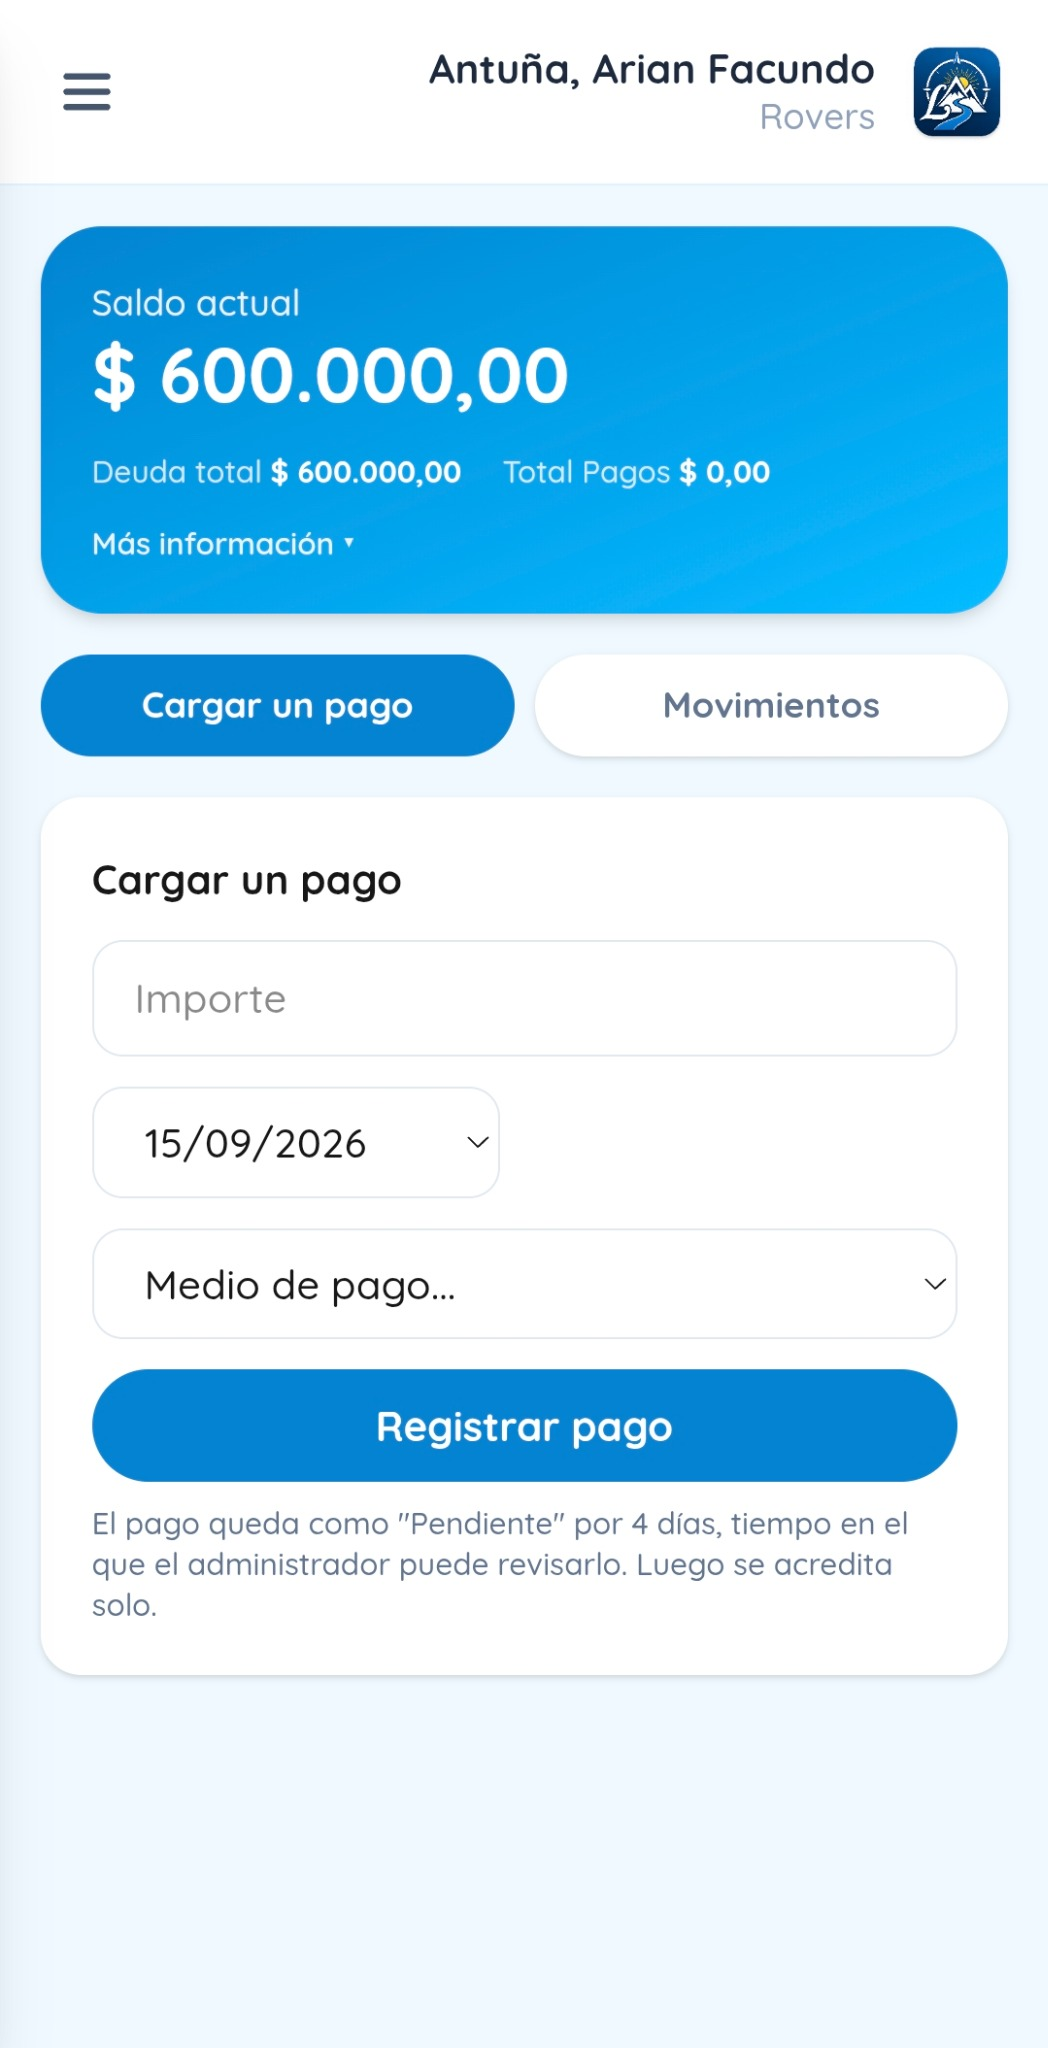
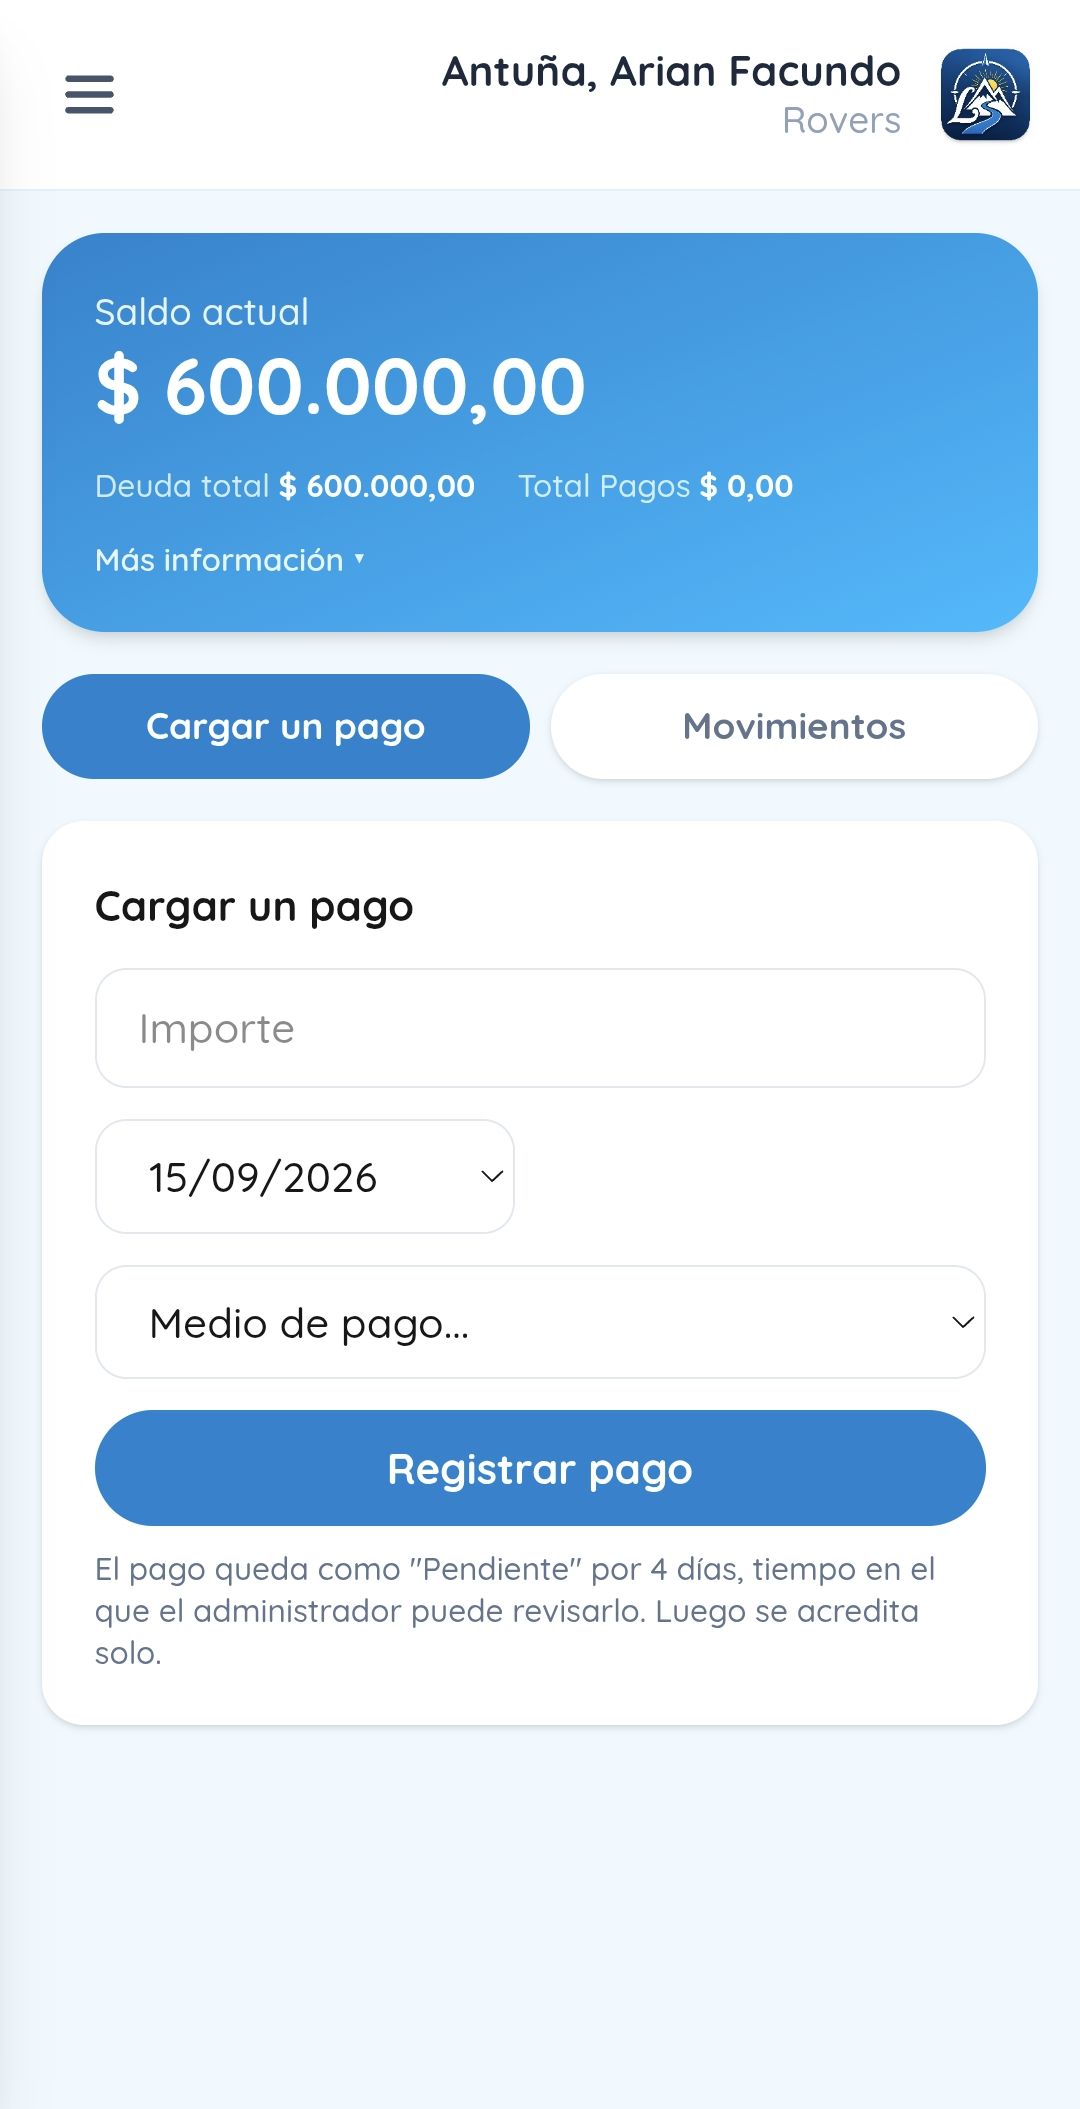
Corregir proporciones del mockup del celular en el hero
El frame .phone usaba ancho y alto en porcentajes independientes que
no estaban ligados entre si, por lo que cualquier cambio de alto del
hero lo desproporcionaba. Se reemplaza por aspect-ratio (calcado del
aspect real de las capturas) para que el marco siempre tenga forma de
telefono sin importar el alto del contenedor. Tambien se actualiza la
captura de pantalla usada dentro del mockup.

diff --git a/styles.css b/styles.css
@@ -1,13 +1,13 @@
 :root{--navy:#07366d;--deep:#052b59;--blue:#087cf0;--sky:#27b7ef;--pale:#eaf7ff;--yellow:#ffd633;--text:#0b315e;--muted:#647f9e;--white:#fff;--shadow:0 20px 60px rgba(4,53,105,.14)}
 *{box-sizing:border-box}html{scroll-behavior:smooth}body{margin:0;color:var(--text);font-family:"DM Sans",sans-serif;background:#fff;overflow-x:hidden}img{max-width:100%;display:block}a{color:inherit;text-decoration:none}.shell{width:min(1160px,calc(100% - 40px));margin-inline:auto}.skip-link{position:fixed;left:16px;top:-80px;z-index:100;background:#fff;padding:12px 18px;border-radius:10px}.skip-link:focus{top:16px}.eyebrow{text-transform:uppercase;letter-spacing:.15em;font-weight:800;color:#78bdf2;font-size:.78rem}.site-header{position:fixed;inset:0 0 auto;z-index:50;background:rgba(255,255,255,.86);backdrop-filter:blur(18px);border-bottom:1px solid rgba(10,106,186,.08)}.nav-wrap{height:94px;display:flex;align-items:center;gap:34px}.brand{width:280px;flex:0 0 auto}.brand img{width:100%;height:auto}.site-header nav{display:flex;align-items:center;gap:30px;margin-left:auto}.site-header nav a{font-weight:600;color:#6e82a0;position:relative}.site-header nav a:hover,.site-header nav a.active{color:var(--blue)}.site-header nav a.active:after{content:"";position:absolute;height:3px;border-radius:3px;left:0;right:0;bottom:-15px;background:var(--blue)}.button{display:inline-flex;align-items:center;justify-content:center;gap:11px;background:linear-gradient(135deg,#0a86f6,#0062df);color:#fff;font-weight:800;border-radius:999px;padding:16px 26px;box-shadow:0 12px 28px rgba(2,112,228,.27);border:0;transition:.25s transform,.25s box-shadow}.button:hover{transform:translateY(-2px);box-shadow:0 16px 34px rgba(2,112,228,.34)}.button-small{padding:13px 22px}.menu-toggle{display:none;border:0;background:none;padding:8px}.menu-toggle span{display:block;width:24px;height:2px;background:var(--navy);margin:5px}
 .hero{position:relative;padding:165px 0 84px;min-height:760px;overflow:hidden;background:linear-gradient(160deg,#fff 12%,#eff9ff 57%,#d7efff);isolation:isolate}.hero-art{position:absolute;inset:0;background:url("assets/hero-superior.png") bottom center/cover no-repeat;opacity:.3;z-index:-1}.hero-glow{position:absolute;width:560px;height:560px;right:3%;top:15%;border-radius:50%;background:radial-gradient(circle,rgba(58,187,245,.2),transparent 66%);z-index:-1}.hero-grid{display:grid;grid-template-columns:.92fr 1.08fr;gap:34px;align-items:center}.hero-copy{padding-top:15px}.hero h1,.section-heading h2,.section-copy h2,.family-message h2{font-family:"Nunito",sans-serif;margin:.3em 0;line-height:1.03;color:var(--navy);letter-spacing:-.035em}.hero h1{font-size:clamp(2.65rem,5vw,4.4rem);max-width:640px}.hero h1 span,.section-heading h2 span,.section-copy h2 span,.family-message h2 span{color:var(--blue)}.lede{font-size:1.08rem;line-height:1.7;color:var(--muted);max-width:590px}.hero-actions{display:flex;gap:14px;margin:30px 0}.button-ghost{background:rgba(255,255,255,.78);color:var(--blue);border:2px solid #7bbdf6;box-shadow:none}.play-mini{border:2px solid;border-radius:50%;width:25px;height:25px;display:grid;place-items:center;font-size:.65rem;padding-left:2px}.hero-points{list-style:none;display:flex;gap:26px;padding:0;margin:38px 0 0;color:#7890ad;font-size:.79rem}.hero-points li{display:flex;align-items:center;gap:8px;max-width:140px}.hero-points span{width:35px;height:35px;border-radius:50%;display:grid;place-items:center;background:#e1f4ff;color:var(--blue);font-size:1rem;flex:0 0 auto}
-.product-scene{position:relative;height:530px}.laptop{position:absolute;width:77%;height:60%;left:0;top:20%;background:#152d42;border:9px solid #152d42;border-radius:16px 16px 7px 7px;transform:perspective(900px) rotateY(-4deg);box-shadow:0 28px 45px rgba(6,48,87,.26)}.laptop:after{content:"";position:absolute;left:-6%;right:-6%;height:14px;bottom:-22px;border-radius:4px 4px 20px 20px;background:linear-gradient(#d5e4ed,#8aa2b6)}.laptop-screen{height:100%;padding:54px 34px;background:linear-gradient(135deg,rgba(255,255,255,.95),rgba(221,247,255,.9)),url("assets/maqueta.png") center/cover;border-radius:7px;color:var(--navy)}.mock-brand{display:flex;align-items:center;gap:9px}.mock-brand img{width:27px;border-radius:7px}.laptop-screen p{font-family:"Nunito";font-size:2rem;line-height:1.05;margin:28px 0 10px}.laptop-screen small{color:#6b85a4}.phone{position:absolute;right:3%;top:17%;width:34%;min-width:210px;height:71%;background:#fff;border:8px solid #152d42;border-radius:30px;padding:0;overflow:hidden;box-shadow:0 28px 48px rgba(6,48,87,.3);z-index:3}.phone-shot{display:block;width:100%;height:100%;object-fit:cover;object-position:top center}.floating-icon{position:absolute;width:104px;top:2%;left:39%;border-radius:25px;box-shadow:0 18px 32px rgba(3,67,129,.35);z-index:5}.video-orb{position:absolute;left:46%;top:49%;z-index:6;width:96px;height:96px;border-radius:50%;background:linear-gradient(145deg,#20a5ff,#0065ec);border:8px solid rgba(255,255,255,.72);display:grid;place-items:center;color:#fff;font-size:2rem;box-shadow:0 10px 30px rgba(0,103,229,.4)}.video-orb span{margin-left:6px}.note{position:absolute;font-family:"Nunito";font-style:italic;color:#5278a2;transform:rotate(-6deg);font-size:1rem}.note-top{right:0;top:0}.note-bottom{bottom:0;left:35%}.sun-mark{position:absolute;right:4%;bottom:5%;width:120px;height:120px;border-radius:50%;background:var(--yellow);opacity:.55}
+.product-scene{position:relative;height:530px}.laptop{position:absolute;width:77%;height:60%;left:0;top:20%;background:#152d42;border:9px solid #152d42;border-radius:16px 16px 7px 7px;transform:perspective(900px) rotateY(-4deg);box-shadow:0 28px 45px rgba(6,48,87,.26)}.laptop:after{content:"";position:absolute;left:-6%;right:-6%;height:14px;bottom:-22px;border-radius:4px 4px 20px 20px;background:linear-gradient(#d5e4ed,#8aa2b6)}.laptop-screen{height:100%;padding:54px 34px;background:linear-gradient(135deg,rgba(255,255,255,.95),rgba(221,247,255,.9)),url("assets/maqueta.png") center/cover;border-radius:7px;color:var(--navy)}.mock-brand{display:flex;align-items:center;gap:9px}.mock-brand img{width:27px;border-radius:7px}.laptop-screen p{font-family:"Nunito";font-size:2rem;line-height:1.05;margin:28px 0 10px}.laptop-screen small{color:#6b85a4}.phone{position:absolute;right:3%;top:17%;height:71%;aspect-ratio:1048/2048;width:auto;background:#fff;border:8px solid #152d42;border-radius:30px;padding:0;overflow:hidden;box-shadow:0 28px 48px rgba(6,48,87,.3);z-index:3}.phone-shot{display:block;width:100%;height:100%;object-fit:cover;object-position:top center}.floating-icon{position:absolute;width:104px;top:2%;left:39%;border-radius:25px;box-shadow:0 18px 32px rgba(3,67,129,.35);z-index:5}.video-orb{position:absolute;left:46%;top:49%;z-index:6;width:96px;height:96px;border-radius:50%;background:linear-gradient(145deg,#20a5ff,#0065ec);border:8px solid rgba(255,255,255,.72);display:grid;place-items:center;color:#fff;font-size:2rem;box-shadow:0 10px 30px rgba(0,103,229,.4)}.video-orb span{margin-left:6px}.note{position:absolute;font-family:"Nunito";font-style:italic;color:#5278a2;transform:rotate(-6deg);font-size:1rem}.note-top{right:0;top:0}.note-bottom{bottom:0;left:35%}.sun-mark{position:absolute;right:4%;bottom:5%;width:120px;height:120px;border-radius:50%;background:var(--yellow);opacity:.55}
 .video-section{padding:90px 0;background:#f6fbff}.video-grid{display:grid;grid-template-columns:.38fr .62fr;align-items:center;gap:58px}.section-copy h2,.section-heading h2,.family-message h2{font-size:clamp(2.15rem,4vw,3.35rem)}.section-copy p:not(.eyebrow){color:var(--muted);line-height:1.7}.video-frame{border-radius:28px;padding:10px;background:linear-gradient(135deg,#fff,#bce8ff);box-shadow:var(--shadow)}video{display:block;width:100%;aspect-ratio:16/9;border-radius:20px;background:#052b59;object-fit:cover}
 .features{padding:100px 0 120px;background:linear-gradient(#fff,#f4fbff)}.section-heading{text-align:center;max-width:800px;margin:0 auto 50px}.feature-grid{display:grid;grid-template-columns:repeat(3,1fr);gap:24px}.feature-card{background:rgba(255,255,255,.92);padding:38px 34px;border-radius:28px;text-align:center;box-shadow:var(--shadow);border:1px solid rgba(56,145,213,.1);transition:.25s transform}.feature-card:hover{transform:translateY(-7px)}.feature-card h3{font-family:"Nunito";font-size:1.45rem;margin:20px 0 8px}.feature-card p{color:#748aa6;line-height:1.65;margin:0}.feature-icon{width:142px;height:112px;margin:auto;display:grid;place-items:center}.feature-icon img{display:block;width:100%;height:100%;object-fit:contain;object-position:center;border-radius:18px}
 .family-section{position:relative;min-height:590px;overflow:hidden;background:linear-gradient(135deg,#f4fbff 0%,#d9f1ff 52%,#b9e4fb 100%);border-top:1px solid rgba(31,132,211,.12)}.family-art{position:absolute;inset:0;background:url("assets/fondo-final.png") bottom center/cover no-repeat;opacity:.3}.family-content{position:relative;z-index:1;min-height:590px;display:flex;align-items:center}.family-message{width:53%;padding:60px 0}.family-message p:not(.eyebrow){line-height:1.7;color:#587999;max-width:560px}.family-message .button{margin-top:18px}.scout-badge{position:absolute;right:1%;top:12%;display:flex;align-items:center;font-family:"Nunito";font-style:italic;color:#4e7195;transform:rotate(-4deg)}.scout-badge span{font-size:1.05rem}
 footer{background:linear-gradient(90deg,#042b58,#063f7e);color:#c7d9eb;padding:28px 0}.footer-grid{display:grid;grid-template-columns:1.5fr 1fr auto;align-items:center;gap:30px;font-size:.78rem}.footer-grid>div{display:flex;align-items:center;gap:10px}.footer-grid img{width:30px;border-radius:8px}.footer-grid i{height:18px;width:1px;background:#5c7c9f}.footer-grid nav{display:flex;gap:20px}.footer-grid p{font-family:"Nunito";font-style:italic;margin:0}.reveal{opacity:0;transform:translateY(18px);transition:.7s ease opacity,.7s ease transform}.reveal.visible{opacity:1;transform:none}
 @media (max-width:980px){.brand{width:220px}.site-header nav{position:absolute;left:20px;right:20px;top:82px;background:white;border-radius:20px;box-shadow:var(--shadow);padding:22px;display:none;flex-direction:column;align-items:flex-start}.site-header nav.open{display:flex}.menu-toggle{display:block;margin-left:auto}.hero-grid,.video-grid{grid-template-columns:1fr}.hero-copy{text-align:center}.hero h1,.lede{margin-left:auto;margin-right:auto}.hero-actions,.hero-points{justify-content:center}.product-scene{max-width:680px;width:100%;margin:auto}.video-grid{gap:32px}.section-copy{text-align:center}.feature-grid{grid-template-columns:1fr;max-width:620px;margin:auto}.family-message{width:67%}.footer-grid{grid-template-columns:1fr;text-align:center}.footer-grid>div,.footer-grid nav{justify-content:center}.site-header>.shell>.button-small{display:none}}
-@media (max-width:640px){.shell{width:min(100% - 28px,1160px)}.nav-wrap{height:78px}.brand{width:185px}.hero{padding-top:120px}.hero h1{font-size:2.55rem}.hero-actions{flex-direction:column;align-items:stretch}.hero-points{display:grid;grid-template-columns:1fr;justify-items:start;text-align:left;width:max-content;max-width:100%;margin-inline:auto}.hero-points li{max-width:none}.product-scene{height:420px}.laptop{width:87%;height:58%;top:24%}.laptop-screen{padding:38px 20px}.laptop-screen p{font-size:1.35rem}.phone{width:39%;min-width:150px;height:70%;padding:0;border-width:6px}.floating-icon{width:72px;left:37%}.video-orb{width:72px;height:72px;font-size:1.4rem;left:43%}.note{display:none}.family-art{background-size:auto 100%;background-position:70% bottom;opacity:.3}.family-message{width:100%;text-align:center;padding:75px 0 210px}.family-message p{margin-inline:auto}.scout-badge{right:50%;transform:translateX(50%) rotate(-4deg);top:auto;bottom:40px}.footer-grid>div{flex-wrap:wrap}.footer-grid nav{flex-wrap:wrap}}
+@media (max-width:640px){.shell{width:min(100% - 28px,1160px)}.nav-wrap{height:78px}.brand{width:185px}.hero{padding-top:120px}.hero h1{font-size:2.55rem}.hero-actions{flex-direction:column;align-items:stretch}.hero-points{display:grid;grid-template-columns:1fr;justify-items:start;text-align:left;width:max-content;max-width:100%;margin-inline:auto}.hero-points li{max-width:none}.product-scene{height:420px}.laptop{width:87%;height:58%;top:24%}.laptop-screen{padding:38px 20px}.laptop-screen p{font-size:1.35rem}.phone{height:70%;padding:0;border-width:6px}.floating-icon{width:72px;left:37%}.video-orb{width:72px;height:72px;font-size:1.4rem;left:43%}.note{display:none}.family-art{background-size:auto 100%;background-position:70% bottom;opacity:.3}.family-message{width:100%;text-align:center;padding:75px 0 210px}.family-message p{margin-inline:auto}.scout-badge{right:50%;transform:translateX(50%) rotate(-4deg);top:auto;bottom:40px}.footer-grid>div{flex-wrap:wrap}.footer-grid nav{flex-wrap:wrap}}
 @media (prefers-reduced-motion:reduce){html{scroll-behavior:auto}.reveal{opacity:1;transform:none;transition:none}.button,.feature-card{transition:none}}
 .nav-wrap{height:130px;padding-top:10px}
 @media (max-width:640px){.nav-wrap{height:98px;padding-top:8px}.hero{padding-top:145px}}
